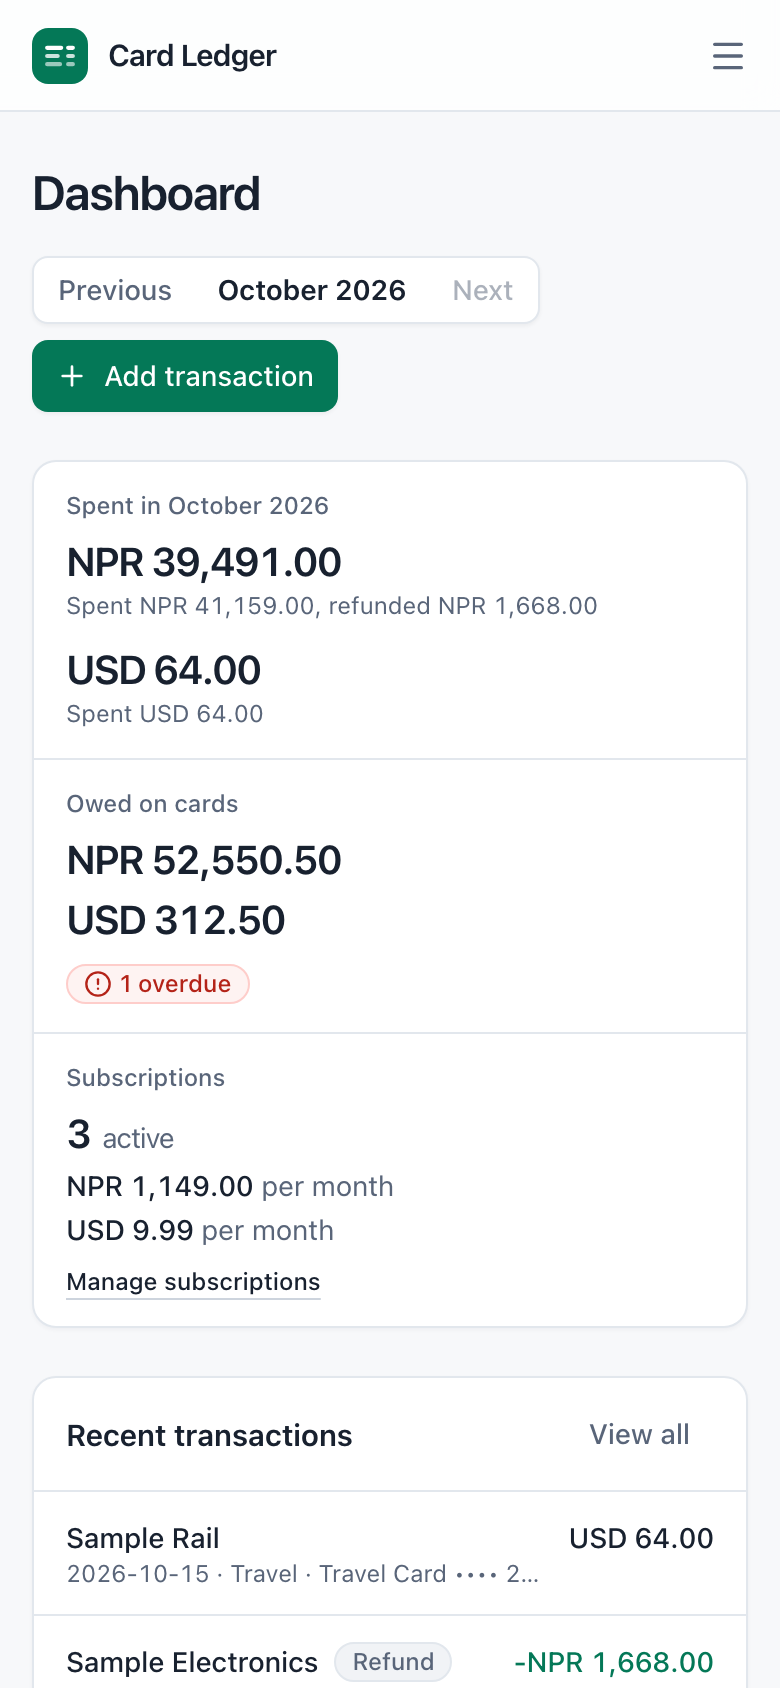
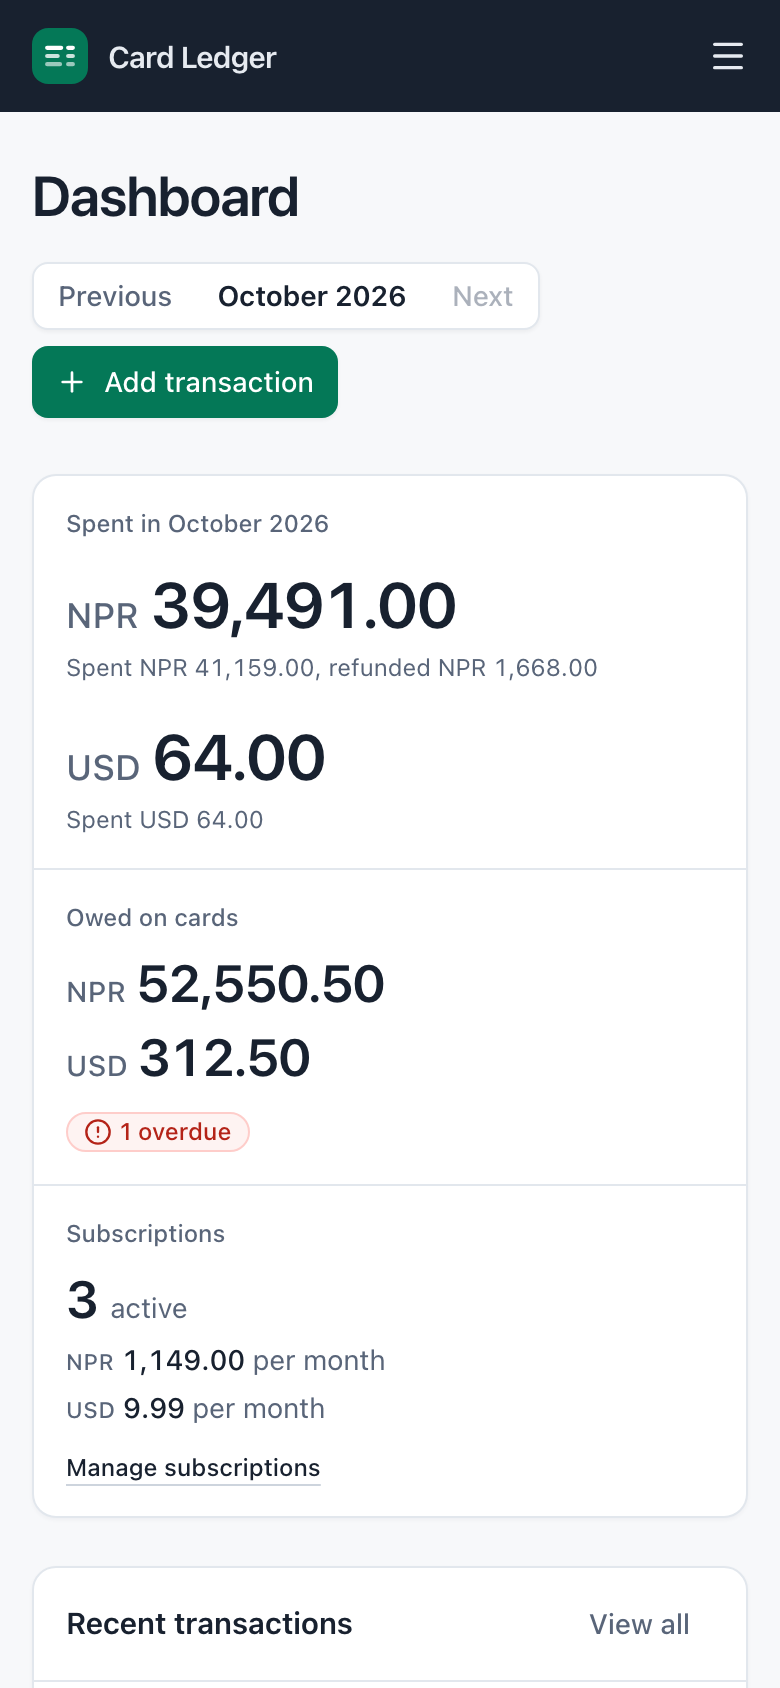
docs: record the dark frame and ledger amounts; new screenshots
ADR 0012, AGENTS.md, the changelog entry and the roadmap row describe the
second pass. README screenshots regenerated from a production build of
this branch and the re-seeded synthetic demo account; each was viewed.

diff --git a/docs/roadmap.md b/docs/roadmap.md
@@ -53,7 +53,7 @@ Global requirements for every feature ticket:
 | yes | R-01 First release v0.1.0 | Published on 2026-10-12 as a GitHub pre-release; the tag is on the merge of pull request #6 (`3e840bb`), CI green on that commit. The body is the 0.1.0 section of [`CHANGELOG.md`](../CHANGELOG.md) (what is in it, how it was checked, known limitations, how to report problems) with its relative links pinned to the tag; the install steps, health check, upgrade and removal had been walked through on a fresh clone and in a real browser the day before. `docs/releasing.md` records the procedure and the mistakes it avoids (a tag created before the merge, relative links on a release page, moving a tag); its body generator is run by a test. Tags `v*` are protected by the ruleset `protect-release-tags`. **Not verified:** the README and the issue forms as GitHub renders them; the Caddy, nginx, Tailscale, SSH-tunnel, cron, systemd and `age` examples; a clean-VPS install; restore across PostgreSQL major versions. |
 | yes | R-02 First prebuilt image, v0.1.1 | `ghcr.io/harublank0-0/card-ledger:0.1.1` and `:0.1`, published on 2026-10-12 by `publish-image.yml` when the tag was pushed (run 38226087052): per architecture on a native runner (`ubuntu-24.04`, `ubuntu-24.04-arm`) `scripts/build-image.sh`, the 13-check smoke test on that exact image, then the push; a last job merges the architectures and checks both platforms. `image-check.yml` does the build and test on pull requests without any registry access (it passed on its own pull request for both architectures). Verified afterwards from outside: anonymous inspect and tag list (no visibility change was needed, GitHub made the package public itself), a credential-free pull on arm64, the revision label equals the tag's commit, and the 13 smoke checks pass on the pulled image. 0.1.1 changes no application code, schema or dependency. Design: [ADR 0011](./decisions/0011-published-container-image.md); procedure: [`docs/releasing.md`](./releasing.md). **Not verified:** the amd64 image on real amd64 hardware outside CI; signing, SBOM attestations and base-image digest pinning (not done, listed in the release notes); how the moving `0.1` tag behaves once a later patch exists. |
 
-| yes | U-01 Visual redesign (unscheduled) | Every screen rebuilt on one design system ([ADR 0012](./decisions/0012-visual-design-system.md)): palette tokens with measured contrast, system font stack, tabular amounts, sidebar and phone sheet (`AppShell`), `PageHeader`, ledger tables in one panel each, `StatGroup` figures, `FormPanel`, `StatusBadge` (words plus icon), inline errors and success toasts (`notify()`, no dependency), confirm dialogs for deletes, a loading outline and progress bar, reduced-motion support, a solid 2px focus outline and a skip link. Sheet, alert dialog and dropdown menu come from the shadcn CLI on the existing `radix-ui`. Tests: toast store, statement tone, badge and alert semantics, reduced-motion rule, pending component (6 mutations caught); existing render and guard tests unchanged except two that pinned a location rather than a behaviour (the sign-out guard now points at `app-shell.tsx`; the changelog image check now looks at the 0.1.1 section, since later work has its own "Unreleased" section). Checked with Playwright (the cached Chromium headless shell, and WebKit for whole-row links) against the dev server and then a production build, with the demo account: every screen at 1440×900 and 390×844; no control clipped and no sideways page scroll at 390, 768, 1024, 1100, 1280 and 1440px (a script that compares each control with the panel that clips it found and led to fixing an overflowing filter, tight dashboard columns and three tables that scrolled between 768 and 1100px); no console errors; 20 workflow checks (filters, add and delete with toasts and the dialog, payment record and delete, settings save, segmented filters, card actions menu, phone menu, slow-page loading, skip link, reduced motion, whole-row links in WebKit). README screenshots regenerated from that production build and the re-seeded demo account; each was viewed. **Not verified:** a real screen reader; Firefox; Windows and Linux system fonts (only macOS rendering was seen); a real phone (only emulated viewports). |
+| yes | U-01 Visual redesign (unscheduled) | Every screen rebuilt on one design system ([ADR 0012](./decisions/0012-visual-design-system.md)): palette tokens with measured contrast, system font stack, an ink sidebar and phone bar (a first pass with a white sidebar looked too close to the old interface), ledger-style amounts (`Money`, from the tested `formatMoneyParts`), date tiles (tested `dayAndMonth`), card faces on the cards page, sidebar and phone sheet (`AppShell`), `PageHeader`, ledger tables in one panel each, `StatGroup` figures, `FormPanel`, `StatusBadge` (words plus icon), inline errors and success toasts (`notify()`, no dependency), confirm dialogs for deletes, a loading outline and progress bar, reduced-motion support, a solid 2px focus outline and a skip link. Sheet, alert dialog and dropdown menu come from the shadcn CLI on the existing `radix-ui`. Tests: toast store, statement tone, badge and alert semantics, reduced-motion rule, pending component, money parts and date tiles (6 mutations caught on the first set); the dashboard render test now compares amounts with the rendered text (code and number are separate elements); other render and guard tests unchanged except two that pinned a location rather than a behaviour (the sign-out guard now points at `app-shell.tsx`; the changelog image check now looks at the 0.1.1 section, since later work has its own "Unreleased" section). Checked with Playwright (the cached Chromium headless shell, and WebKit for whole-row links) against the dev server and then a production build, with the demo account: every screen at 1440×900 and 390×844; no control clipped and no sideways page scroll at 390, 768, 1024, 1100, 1280 and 1440px (a script that compares each control with the panel that clips it found and led to fixing an overflowing filter, tight dashboard columns and three tables that scrolled between 768 and 1100px); no console errors; 20 workflow checks (filters, add and delete with toasts and the dialog, payment record and delete, settings save, segmented filters, card actions menu, phone menu, slow-page loading, skip link, reduced motion, whole-row links in WebKit). README screenshots regenerated from that production build and the re-seeded demo account; each was viewed. **Not verified:** a real screen reader; Firefox; Windows and Linux system fonts (only macOS rendering was seen); a real phone (only emulated viewports). |
 
 Not started: nothing in Phases 0 to 3. Phases 4 and 5 are unscheduled.
 

diff --git a/docs/decisions/0012-visual-design-system.md b/docs/decisions/0012-visual-design-system.md
@@ -9,6 +9,8 @@ The first interface was the scaffold's zinc theme with leftover template styles 
 - **Palette as tokens in `src/styles.css`.** Canvas `#F7F8FA`, surface `#FFFFFF`, ink `#18212F`, slate `#596579` for secondary text, hairline `#E2E7ED`, and emerald `#047857` as the only accent. Every text pair was measured: ink on canvas 15.2:1, slate on surface 5.9:1 (5.3:1 on the subtle grey), emerald on surface and white on emerald 5.5:1, red `#B42318` 6.6:1, amber `#92400E` on its tint 6.8:1. The contrast table sits next to the tokens.
 - **Colour has one meaning each.** Emerald is for the primary action and the selected place (navigation, segmented filters); red only for errors and money that is late; amber only for warnings (a statement due within 7 days, a cancel-by date within 7 days, reminders paused). Status badges always carry words, and coloured tones add an icon (`StatusBadge`, pinned by a test).
 - **System fonts, no web font.** A web font would mean either a request to a font CDN on every page load, which the no-external-calls principle rules out, or a new self-hosted dependency for little gain. The stack (`ui-sans-serif, system-ui, …, Segoe UI Variable, Roboto, Noto Sans`) gives each platform its own well-hinted face. Amounts, dates and counts use tabular figures, and numeric columns are right-aligned.
+- **A dark frame.** The sidebar, the phone top bar and the phone menu are ink (`#18212F`, the darkest colour of the palette), with the current page as a solid emerald pill. Measured on ink: links `#AEB8C6` 8.1:1, labels `#8B97A8` 5.5:1, white on emerald 5.5:1, and a light focus ring `#6EE7B7` (10.6:1) because the emerald ring is too faint on ink. A first pass with a white sidebar was rejected by the maintainer as too close to the old interface; the dark frame is what makes the change visible at a glance.
+- **Money set like a ledger.** `Money` sets the currency code smaller and grey beside the number (`NPR 39,491.00` still reads and copies that way), and headline figures are large (26–32px), so the eye lands on the amounts. Lists on the dashboard start with a date tile ("15 / Oct"; the full date is in the markup for assistive technology), tinted red or amber when the item is late or close. The cards page shows each card as a card face (name, issuer, last four digits, limit) with its statement and due days below.
 - **One page structure.** A compact sidebar on wide screens and a top bar with a slide-in sheet below 1024px (`AppShell`); every page opens with `PageHeader` (title, one line on what the page is for, the main action on the right). Lists are tables in a single panel with their filters as a toolbar on top (`Panel`, `components/ui/table.tsx`); summary figures share one panel split by hairlines (`StatGroup`) instead of a card each, and appear only where the data already exists. Forms are panels with an action bar (`FormPanel`, `SubmitButton`). Radii: 12px for panels, 8px for controls; shadows are a 1px hint, larger only for menus, dialogs and toasts.
 - **Choosing a surface by amount of content.** Adding and editing stay on their own pages (the forms are long, and the existing navigation and tests rely on those URLs). Deleting a transaction, statement or payment asks in a small confirmation dialog (`ConfirmDialog`), replacing the inline two-step buttons. Navigation on phones is a sheet. Row actions on the cards list are a menu.
 - **Feedback.** Success is a short toast (`notify()` in `src/lib/toast.ts`, no dependency; messages are generic, like page titles, never amounts or names). Failures stay next to the control that failed (`ActionError`, `role="alert"`), still produced by `useAction`. While the next screen loads, the shell stays, a thin progress bar runs along the top of the content, the table being refiltered dims, and a page slower than 600ms shows an outline of a page (`RoutePending`) inside the shell.

diff --git a/AGENTS.md b/AGENTS.md
@@ -22,7 +22,7 @@ Planning docs (proposed, not yet implemented): `docs/architecture.md`, `docs/dat
 - Request bodies over 1 MiB are refused with 413 by a Nitro middleware (`src/server/body-limit.ts`, registered in `vite.config.ts` for `/**`; it must be middleware, because an error thrown from a Nitro `request` hook is only logged). In `SIGNUP_MODE=first-user`, sign-up requests run under a Postgres advisory lock (`src/lib/signup-lock.server.ts`, applied in `src/routes/api/auth/$.ts` through `handleAuthPost`) so two simultaneous first sign-ups cannot both create an owner. Waiters queue in the process before taking the lock, so a burst cannot use up the connection pool and starve the request that owns it.
 - `/api/health` is deliberately unauthenticated (200, or 503 with pass/fail per check only) for Docker and proxies; it touches no domain table. A Nitro plugin (`src/server/startup.ts`) validates the environment at boot and logs variable names only; it also warns (and still starts) when `SIGNUP_MODE=open` is combined with SMTP, because email addresses are not verified. Server logs are JSON lines from `src/lib/logger.server.ts`: primitives only, never amounts, notes or error messages (use `errorClass`).
 - Features live in `src/features/<name>/` (`*.schemas.ts` Zod, `*.service.server.ts` user-scoped Prisma, `*.functions.ts` `createServerFn` + `authMiddleware`, `*.logic.ts` pure). Routes in `src/routes/_authed/` are guarded for UX only; `/` is the dashboard. Component render tests use `src/test/render.tsx` (in-memory router, static HTML, no DOM library).
-- Tailwind CSS 4, shadcn/ui (new-york, lucide) in `src/components/ui`, Biome for lint/format (tabs, double quotes). Visual design: [ADR 0012](docs/decisions/0012-visual-design-system.md). Colour tokens (with their measured contrast) live in `src/styles.css`; emerald only for primary actions and the selected place, red only for errors and late money, amber only for warnings; system font stack (no web font: it would be an external request). Pages are built from `AppShell` (sidebar / phone sheet), `PageHeader`, `Panel`/`PanelHeader`/`StatGroup`, `ui/table.tsx` (right-aligned `numeric` cells, `rowLinkClass` for whole-row links), `FormPanel`/`SubmitButton`, `StatusBadge` (words always, icon for coloured tones), `InlineAlert`/`ActionError`, `EmptyState` and `ConfirmDialog` (deletes). Success is a toast via `notify()` (`src/lib/toast.ts`; generic words, no amounts or names); failures stay inline. `prefers-reduced-motion` turns motion off globally.
+- Tailwind CSS 4, shadcn/ui (new-york, lucide) in `src/components/ui`, Biome for lint/format (tabs, double quotes). Visual design: [ADR 0012](docs/decisions/0012-visual-design-system.md). Colour tokens (with their measured contrast) live in `src/styles.css`; emerald only for primary actions and the selected place, red only for errors and late money, amber only for warnings; system font stack (no web font: it would be an external request). Pages are built from `AppShell` (ink sidebar / phone sheet), `PageHeader`, `Money` (every displayed amount: smaller grey code, tabular number), `DateTile`, `Panel`/`PanelHeader`/`StatGroup`, `ui/table.tsx` (right-aligned `numeric` cells, `rowLinkClass` for whole-row links), `FormPanel`/`SubmitButton`, `StatusBadge` (words always, icon for coloured tones), `InlineAlert`/`ActionError`, `EmptyState` and `ConfirmDialog` (deletes). Success is a toast via `notify()` (`src/lib/toast.ts`; generic words, no amounts or names); failures stay inline. `prefers-reduced-motion` turns motion off globally.
 - Typed env via `@t3-oss/env-core` in `src/env.ts` (client vars need `VITE_` prefix).
 
 ## Conventions

diff --git a/CHANGELOG.md b/CHANGELOG.md
@@ -7,9 +7,11 @@ between 0.x releases, and every release says what to do when upgrading.
 
 ### Changed
 
-- **A redesigned interface.** A compact sidebar (a slide-in menu on phones), a clear heading with
+- **A redesigned interface.** A dark sidebar (a slide-in menu on phones), a clear heading with
   the main action on every page, and the ledger as a real table: amounts right-aligned in tabular
-  figures, filters as a toolbar above it, the whole row clickable. Summary figures share one panel
+  figures with the currency code set small beside them, filters as a toolbar above it, the whole
+  row clickable. Large headline figures, date tiles on the dashboard's lists, and cards shown as
+  card faces. Summary figures share one panel
   instead of a card each. Statuses always carry words, and coloured ones an icon; red is kept for
   errors and late payments and amber for warnings (a statement or cancel-by date within 7 days).
   Deleting a transaction, statement or payment now asks in a small dialog, saving shows a short
